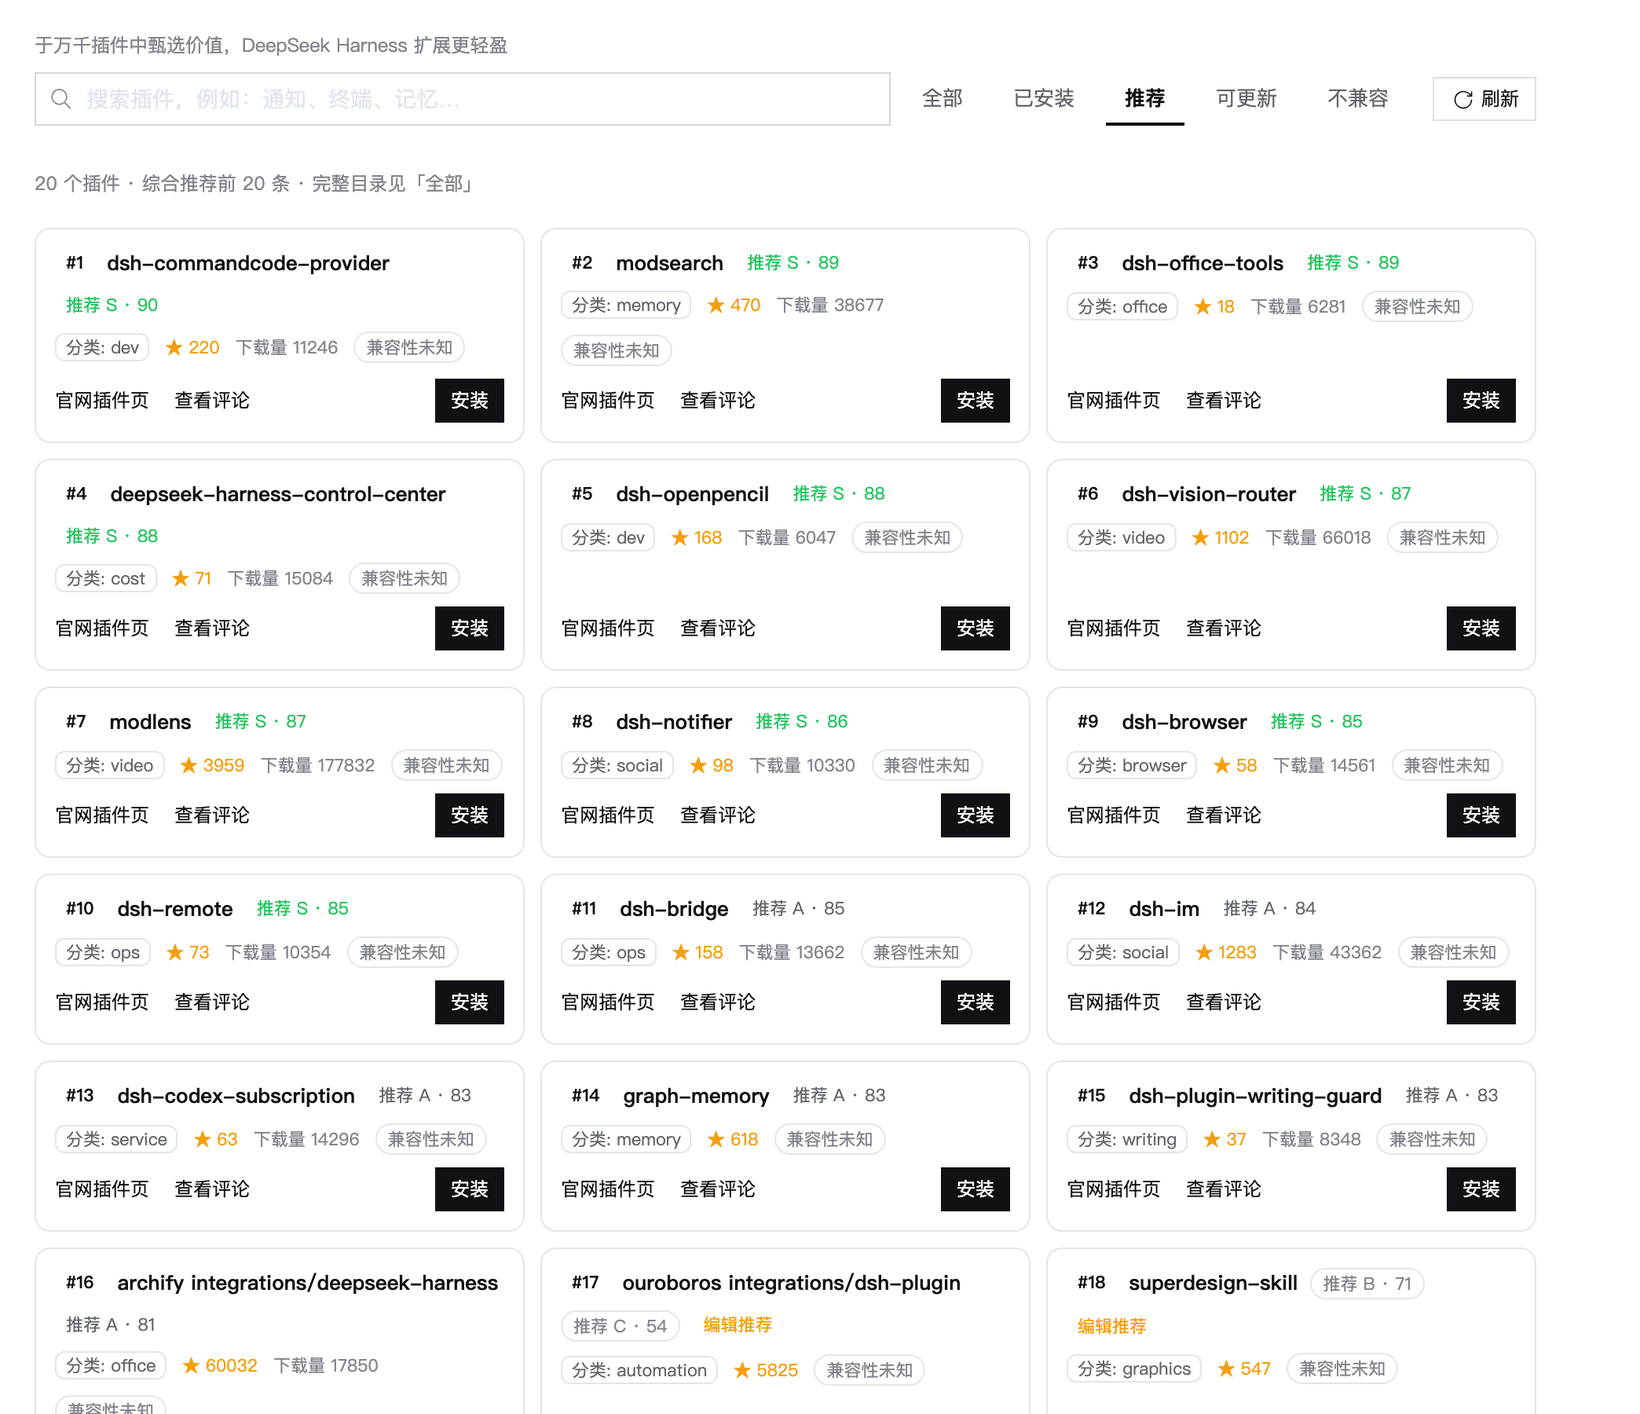
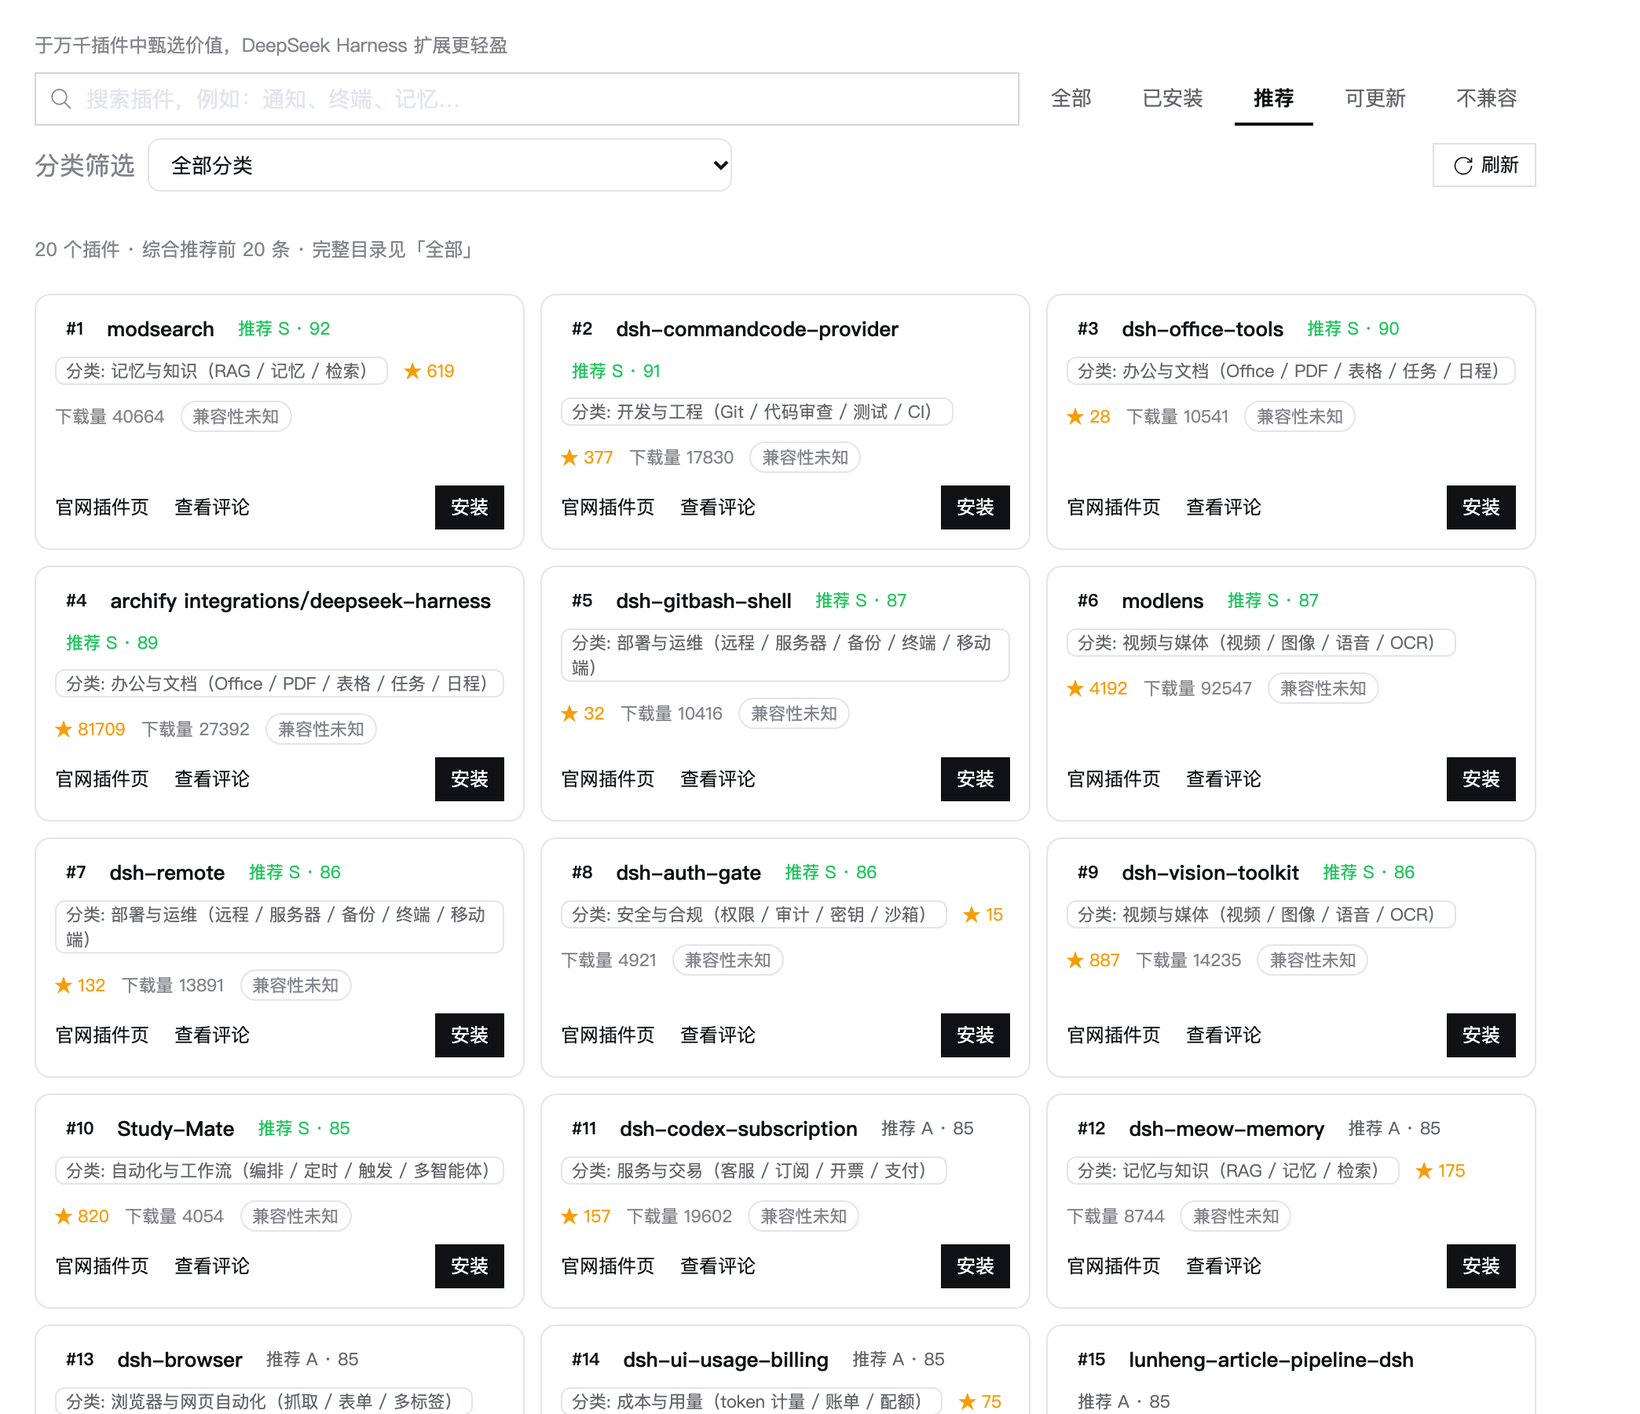
Let the panel browse by category, not just label it
Restarting showed there was nowhere to FIND 「甄选」: categories existed only as a
per-card badge and as something the search box happened to match, so a category
the site publishes had no surface. The toolbar now carries a category selector
built from the catalog's own vocabulary.

- Options come from `categories` in the site's order (curated first), labelled
  per active locale via `categoryEntryLabel`, with counts the panel computes from
  the rows it holds — the number next to a category should describe what
  selecting it shows, not what the site's own counter claims.
- The value is the slug, so the site can relabel a category without the panel
  caring; the filter is per slug (rows may carry several) and composes with the
  state chips and the search box.
- 「推荐」 stays a fixed ranking and the category filter still applies: an empty
  combination says so and points at 「全部」 instead of pretending to have rows.
- Fixed the bug the tests caught: the filter went into the discover memo's body
  but not its dependency array, so selecting a category changed nothing.

Also hardened the screenshot tool: one browser with a tab per view (the
per-view browser spawn was refused the profile lock and died on `JSON.parse` of
an undefined probe), and the probe retries while a target is still navigating.
The README images are regenerated, so they show the selector.

diff --git a/src/client/MarketSection.tsx b/src/client/MarketSection.tsx
@@ -40,7 +40,7 @@ import {
   updatePlugin,
   useSkin,
 } from './market-data.ts'
-import { categoryText, isEnglishLanguage } from './categories.ts'
+import { categoryEntryLabel, categoryText, isEnglishLanguage } from './categories.ts'
 import type { RegistryCategory } from './market-data.ts'
 // Host-service and group vocabulary shapes live with the API client; importing
 // them (rather than re-declaring) keeps this file wired to the same types the
@@ -398,6 +398,21 @@ function catalogKeyOf(plugin: RegistryPlugin): string | undefined {
 }
 
 /**
+ * Whether a row belongs to the selected category.
+ *
+ * `''` means "no category filter". Rows may carry several slugs (older rows joined
+ * them with `, `), so the comparison is per slug and case-insensitive: the site's
+ * vocabulary is lowercase, but a hand-edited catalog need not be.
+ */
+function inCategory(plugin: RegistryPlugin, category: string): boolean {
+  if (category === '') return true
+  const wanted = category.toLowerCase()
+  return (plugin.category ?? '')
+    .split(',')
+    .some(part => part.trim().toLowerCase() === wanted)
+}
+
+/**
  * The label a row is DISPLAYED under.
  *
  * The catalog ships `displayName` — the website's own label: monorepo entries are
@@ -560,9 +575,18 @@ function Toolbar(props: {
   recommended?: boolean
   sort?: SortKey
   onSort?: (value: SortKey) => void
+  /** Selected category slug; `''` = all categories. */
+  category?: string
+  onCategory?: (value: string) => void
+  /** The catalog's vocabulary, in the order the site publishes it. */
+  categories?: readonly RegistryCategory[]
+  /** Rows per category slug, counted over the whole catalog. */
+  categoryCounts?: ReadonlyMap<string, number>
+  /** Whether the English labels apply to the category options. */
+  english?: boolean
   children?: ReactNode
 }) {
-  const { t, query, onQuery, placeholder, busy, onReload, filter, onFilter, recommended, sort, onSort } = props
+  const { t, query, onQuery, placeholder, busy, onReload, filter, onFilter, recommended, sort, onSort, category, onCategory, categories, categoryCounts } = props
   return (
     <div className={css.toolbar}>
       <Input
@@ -602,6 +626,33 @@ function Toolbar(props: {
                 {`${t(entry.field)} · ${t(entry.dir)}`}
               </option>
             ))}
+          </select>
+        </label>
+      )}
+      {/*
+        * The category selector is driven by the catalog's own vocabulary, in the
+        * site's order (curated first): the panel never invents a category list, so
+        * a category the site adds appears here without a plugin release.
+        */}
+      {category !== undefined && onCategory !== undefined && categories !== undefined && categories.length > 0 && (
+        <label className={css.row}>
+          <span className={css.muted}>{t('categoryFilterLabel')}</span>
+          <select
+            className={css.select}
+            value={category}
+            aria-label={t('categoryFilterLabel')}
+            onChange={event => onCategory(event.target.value)}
+          >
+            <option value=''>{t('allCategories')}</option>
+            {categories.map(entry => {
+              const label = categoryEntryLabel(entry, props.english === true)
+              const count = categoryCounts?.get(entry.id)
+              return (
+                <option key={entry.id} value={entry.id}>
+                  {count === undefined ? label : `${label} (${String(count)})`}
+                </option>
+              )
+            })}
           </select>
         </label>
       )}
@@ -1284,6 +1335,9 @@ export function MarketSection(props: {
     () => (tabFromPreferred(props.preferredSubsectionId) === 'installed' ? 'installed' : 'all'),
   )
   const [sort, setSort] = useState<SortKey>('name-asc')
+  // '' = no category filter. Kept as a slug (not a label) because the site owns
+  // the vocabulary and may relabel a category without changing its rows.
+  const [category, setCategory] = useState('')
   const [installedView, setInstalledView] = useState<'list' | 'groups'>('list')
 
   const [registry, setRegistry] = useState<Registry | null>(null)
@@ -1771,6 +1825,7 @@ export function MarketSection(props: {
           .toLowerCase()
         // 名次在搜索之前就定下来：搜过的视图里仍是它真实的名次，而不是"第 1 个匹配"。
         rank += 1
+        if (!inCategory(plugin, category)) continue
         if (query !== '' && !haystack.includes(query)) continue
         push(plugin, rank, true, installed, rank)
         shown += 1
@@ -1782,6 +1837,7 @@ export function MarketSection(props: {
         const haystack = [displayLabelOf(plugin), plugin.name, plugin.npm ?? '', plugin.category ?? '', categoryText(plugin.category, registry?.categories, english) ?? '', plugin.description ?? '', plugin.owner ?? '']
           .join(' ')
           .toLowerCase()
+        if (!inCategory(plugin, category)) continue
         if (query !== '' && !haystack.includes(query)) continue
         if (filter === 'not-installed' && installed !== undefined) continue
         if (filter === 'update-available' && updates[installed?.name ?? '']?.updateAvailable !== true) continue
@@ -1810,7 +1866,7 @@ export function MarketSection(props: {
     return rows
   }, [
     registry, inventory, installedByName, installedByRepo, catalogByPackage, catalogByRepo,
-    updates, compatibility, discoverQuery, filter, sort,
+    updates, compatibility, discoverQuery, filter, sort, category,
   ])
 
   /**
@@ -1819,6 +1875,24 @@ export function MarketSection(props: {
    * The compatibility verdict is applied on top of this set once it arrives, so
    * the request below can ask about exactly these rows.
    */
+  /*
+   * Rows per category slug, counted over the whole catalog — the number the
+   * selector shows next to a label. Counted from the rows the panel holds rather
+   * than the vocabulary's `count`: the two agree on a healthy catalog (gate
+   * 11.4), and when they disagree the number should describe what selecting the
+   * category will actually show.
+   */
+  const countsByCategory = useMemo(() => {
+    const counts = new Map<string, number>()
+    for (const plugin of registry?.plugins ?? []) {
+      for (const part of (plugin.category ?? '').split(',')) {
+        const slug = part.trim()
+        if (slug !== '') counts.set(slug, (counts.get(slug) ?? 0) + 1)
+      }
+    }
+    return counts
+  }, [registry])
+
   const matchedDiscoverRows = useMemo(
     () => (filter === 'incompatible'
       ? discoverRows.filter(row => row.compatibility?.status === 'incompatible')
@@ -2085,6 +2159,11 @@ export function MarketSection(props: {
             recommended={recommendationAvailable}
             sort={rankingView ? undefined : sort}
             onSort={setSort}
+            category={category}
+            onCategory={setCategory}
+            categories={registry?.categories}
+            categoryCounts={countsByCategory}
+            english={english}
           />
           {registryLoading && registry === null && (
             <div className={css.spinnerWrap} role="status">
@@ -2118,8 +2197,10 @@ export function MarketSection(props: {
               {matchedDiscoverRows.length === 0
                 ? (
                     <div className={css.empty}>
-                      <div className={css.emptyTitle}>{t('noMatch')}</div>
-                      <div className={css.emptyHint}>{t('emptyHint')}</div>
+                      <div className={css.emptyTitle}>{category === '' ? t('noMatch') : t('categoryEmpty')}</div>
+                      <div className={css.emptyHint}>
+                        {category !== '' && rankingView ? t('categoryEmptyRecommended') : t('emptyHint')}
+                      </div>
                     </div>
                   )
                 : (

diff --git a/tests/client-market.test.ts b/tests/client-market.test.ts
@@ -1033,3 +1033,124 @@ describe('Discover — category labels follow the catalog', () => {
     expect(cardTitles(host)).toEqual(['dsh-atlas'])
   })
 })
+
+describe('Discover — the category selector browses the site vocabulary', () => {
+  /**
+   * The badge alone was not enough: 「甄选」 had to be *browsable*, and the option
+   * list must come from the catalog (order and labels included) so a category the
+   * site adds appears without a plugin release.
+   */
+  const ROWS = [
+    { key: 'sumarilkkxx/dsh-atlas', name: 'dsh-atlas', owner: 'sumarilkkxx', category: 'curated', stars: 12, description: '地图式知识整理' },
+    { key: 'alpha/dsh-spend', name: 'dsh-spend', owner: 'alpha', category: 'cost', stars: 9, description: '花销看板' },
+    { key: 'beta/dsh-plain', name: 'dsh-plain', owner: 'beta', category: 'made-up', stars: 1 },
+  ]
+  const TABLE = [
+    { id: 'curated', label: '甄选', labelEn: 'Featured', count: 3 },
+    { id: 'cost', label: '费用与额度', labelEn: 'Cost', count: 1 },
+  ]
+
+  function installStub(withRanking = false): void {
+    globalThis.fetch = (async (input: RequestInfo | URL, init?: RequestInit) => {
+      const url = String(input)
+      calls.push({ url, method: init?.method ?? 'GET' })
+      if (url.includes('/registry')) {
+        return json({
+          registry: {
+            plugins: ROWS,
+            count: ROWS.length,
+            categories: TABLE,
+            ...(withRanking
+              ? { ranking: { version: 'opc-ranking/1', window: 20, top: ['alpha/dsh-spend'], pins: [] } }
+              : {}),
+          },
+        })
+      }
+      if (url.includes('/installed')) return json(INVENTORY)
+      if (url.includes('/updates')) return json([])
+      if (url.includes('/discovery-compatibility')) return json({ results: [] })
+      if (url.includes('/status')) {
+        return json({
+          boot: 'test-boot', version: '0.1.1', channel: 'stable', region: 'global', profile: 'web',
+          busy: false, progress: { active: false }, pnpm: { ok: true },
+          restart: { allowed: false, debugger: false, scheduled: false }, installed: [],
+        })
+      }
+      return json({ ok: true })
+    }) as typeof fetch
+  }
+
+  async function mountIn(language: 'zh' | 'en', withRanking = false): Promise<HTMLElement> {
+    installStub(withRanking)
+    const dictionary = language === 'en' ? en : zh
+    const localeT = (key: string, params?: Record<string, string | number>): string => translate(dictionary, key, params)
+    const container = document.getElementById('host') as HTMLElement
+    root = createRoot(container)
+    root.render(createElement(MarketSection, {
+      t: localeT,
+      locale: {
+        register: () => undefined,
+        bind: () => localeT,
+        subscribe: () => () => undefined,
+        getSnapshot: () => ({ active: language }),
+      },
+      theme: { getTheme: () => ({ id: 'dark' }), setTheme: () => undefined },
+      themeStore: { subscribe: () => () => undefined, getSnapshot: () => ({ id: 'dark' }), getServerSnapshot: () => ({ id: 'dark' }) },
+    }))
+    await flush()
+    return container
+  }
+
+  function categorySelect(host: HTMLElement, label: string): HTMLSelectElement {
+    return host.querySelector(`select[aria-label="${label}"]`) as HTMLSelectElement
+  }
+
+  it('offers every published category, in the site order, with live counts', async () => {
+    const host = await mountIn('zh')
+    const select = categorySelect(host, '分类筛选')
+    expect(select).toBeDefined()
+    expect([...select.options].map(option => option.textContent)).toEqual(['全部分类', '甄选 (1)', '费用与额度 (1)'])
+    expect(select.value).toBe('')
+  })
+
+  it('localizes the options with the host locale', async () => {
+    const host = await mountIn('en')
+    const select = categorySelect(host, 'Category filter')
+    expect([...select.options].map(option => option.textContent)).toEqual(['All categories', 'Featured (1)', 'Cost (1)'])
+  })
+
+  it('shows only that category\'s plugins once selected', async () => {
+    const host = await mountIn('zh')
+    selectOption(categorySelect(host, '分类筛选'), 'curated')
+    await flush()
+    expect(cardTitles(host)).toEqual(['dsh-atlas'])
+    // The row whose slug is not in the vocabulary is still reachable under 全部.
+    selectOption(categorySelect(host, '分类筛选'), '')
+    await flush()
+    expect(cardTitles(host).length).toBe(3)
+  })
+
+  it('composes with the search box', async () => {
+    const host = await mountIn('zh')
+    selectOption(categorySelect(host, '分类筛选'), 'curated')
+    await flush()
+    const input = [...host.querySelectorAll('input')]
+      .find(element => (element.getAttribute('aria-label') ?? '').startsWith('搜索')) as HTMLInputElement
+    typeInto(input, '花销')
+    await flush()
+    expect(cardTitles(host)).toEqual([])
+  })
+
+  it('explains an empty category instead of looking broken', async () => {
+    // 「推荐」 is the fixed ranking (one scored row); the curated row is not on it,
+    // so the combination is honestly empty and the hint says how to see it.
+    const host = await mountIn('zh', true)
+    clickChip(host, '推荐')
+    await flush()
+    selectOption(categorySelect(host, '分类筛选'), 'curated')
+    await flush()
+    expect(cardTitles(host)).toEqual([])
+    expect(host.textContent).toContain('该分类下没有可显示的条目')
+    expect(host.textContent).toContain('切到「全部」')
+  })
+})

diff --git a/src/client/categories.ts b/src/client/categories.ts
@@ -18,14 +18,23 @@ export function isEnglishLanguage(language: string | undefined): boolean {
   return typeof language === 'string' && /^en\b/iu.test(language.trim())
 }
 
+/**
+ * The label of one vocabulary entry in the active language.
+ *
+ * The fallback chain is label → other language → slug, so a half-translated
+ * vocabulary (or a hand-edited catalog) still prints something a user can read.
+ */
+export function categoryEntryLabel(entry: RegistryCategory, english: boolean): string {
+  const preferred = english ? entry.labelEn : entry.label
+  const fallback = english ? entry.label : entry.labelEn
+  const chosen = preferred !== undefined && preferred.trim() !== '' ? preferred : fallback
+  return chosen !== undefined && chosen.trim() !== '' ? chosen : entry.id
+}
+
 /** One slug resolved against the published table. */
 function oneLabel(slug: string, categories: readonly RegistryCategory[] | undefined, english: boolean): string {
   const entry = categories?.find(candidate => candidate.id.toLowerCase() === slug.toLowerCase())
-  if (entry === undefined) return slug
-  const preferred = english ? entry.labelEn : entry.label
-  const fallback = english ? entry.label : entry.labelEn
-  const chosen = preferred !== undefined && preferred !== '' ? preferred : fallback
-  return chosen !== undefined && chosen !== '' ? chosen : slug
+  return entry === undefined ? slug : categoryEntryLabel(entry, english)
 }
 
 /**

diff --git a/src/client/locales-market.ts b/src/client/locales-market.ts
@@ -79,6 +79,10 @@ const zh = {
   starsLabel: 'Star',
   downloadsLabel: '下载量',
   categoryLabel: '分类',
+  categoryFilterLabel: '分类筛选',
+  allCategories: '全部分类',
+  categoryEmpty: '该分类下没有可显示的条目',
+  categoryEmptyRecommended: '「推荐」只收录计分条目，切到「全部」即可浏览这个分类的插件',
   notInstalled: '未安装',
   replacementHint: '目录建议改用',
   installReplacement: '安装替代品',
@@ -288,6 +292,10 @@ const en = {
   starsLabel: 'Stars',
   downloadsLabel: 'Downloads',
   categoryLabel: 'Category',
+  categoryFilterLabel: 'Category filter',
+  allCategories: 'All categories',
+  categoryEmpty: 'No plugins in this category',
+  categoryEmptyRecommended: '"Recommended" lists scored entries only — switch to "All" to browse this category',
   notInstalled: 'Not installed',
   replacementHint: 'Catalog suggests',
   installReplacement: 'Install replacement',

diff --git a/docs/client-contract.md b/docs/client-contract.md
@@ -323,6 +323,18 @@ monorepo 条目在目录里是 `repo#subpath`（如 `archify#integrations/deepse
 | 搜索同时认「标签」与「slug」 | 用户照官网的写法搜（甄选），也照数据写法搜（curated） |
 | 一行可带多个 slug（历史数据用 `, ` 连接），逐个解析后用 `、` / `, ` 连接 | 老目录的行是多分类 |
 
+### 6.9.1 分类选择器（工具栏）
+
+工具栏上的「分类筛选」是**唯一**能"按分类浏览"的入口，选项**完全由目录的 `categories` 词表生成**：
+
+| 规则 | 原因 |
+|---|---|
+| 选项顺序 = 词表顺序（`curated`/甄选 排第一，与官网一致），标签按界面语种取 `label`/`labelEn` | 面板不发明分类顺序，官网调整顺序面板即跟随 |
+| 选项后括号里的数字是**面板自己按行统计**的条数（不是词表里的 `count`） | 词表 `count` 是站点口径；选择器上的数字应当描述"选它会出现什么" |
+| 选中的是 **slug**，不是标签 | 站点可以给分类改标签而不动行数据 |
+| 分类筛选与「状态筛选」「搜索」叠加：先按分类，再按状态，再按搜索 | 三者是正交维度 |
+| 「推荐」是固定榜单：分类过滤同样生效，结果为空时提示"切到「全部」" | 榜单只收录计分条目（甄选类不计分），不假装有内容 |
+
 ### 6.10 排序菜单里没有"推荐"
 
 「推荐」是一个**视图**，不是一种排序：排序下拉保持名称 / Star 数 / npm 下载量 / 发布时间四项（各升降序），

diff --git a/README.md b/README.md
@@ -47,6 +47,7 @@
 | 能力 | 说明 |
 |---|---|
 | 五个筛选 | **全部 / 推荐 / 已安装 / 可更新 / 不兼容**，都是同一套卡片网格；筛选是视图，不是排序 |
+| 分类筛选 | 工具栏「分类筛选」由**官网目录的分类词表**生成（顺序与标签同官网，数字按目录实时统计）：官网新增分类（如「甄选」）面板自动出现，可与状态筛选、搜索叠加 |
 | 推荐视图 | 官网 `ranking.top` 前 20（跳过已安装自动补位），每张卡片印名次与分档（S/A/B/C）、评分与"为什么推荐"（编辑推荐条目带 🖊 与理由） |
 | 搜索 | 名称 / npm 包名 / 分类（标签与 slug 都认）/ 描述 / 作者，同时认**官网展示名**与原始包名 |
 | 排序 | 名称 / Star 数 / npm 下载量 / 发布时间，各升降序（推荐视图按名次，不排序） |
